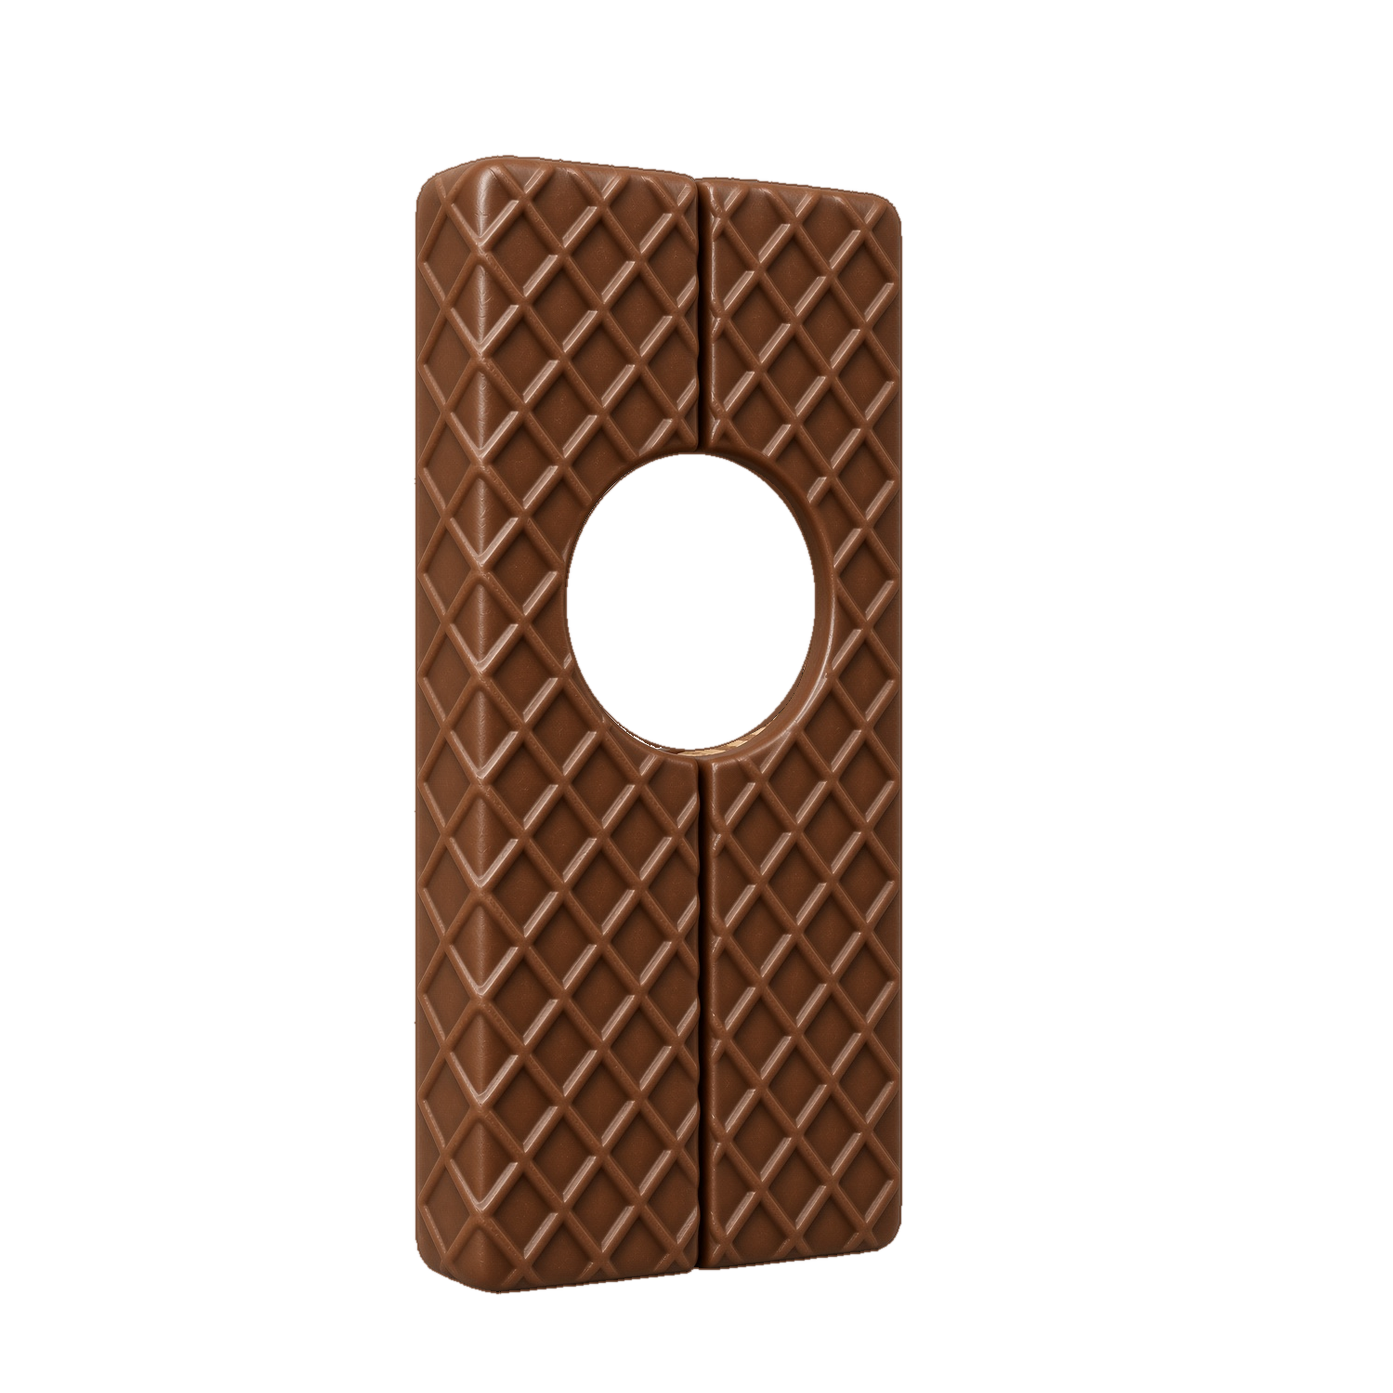
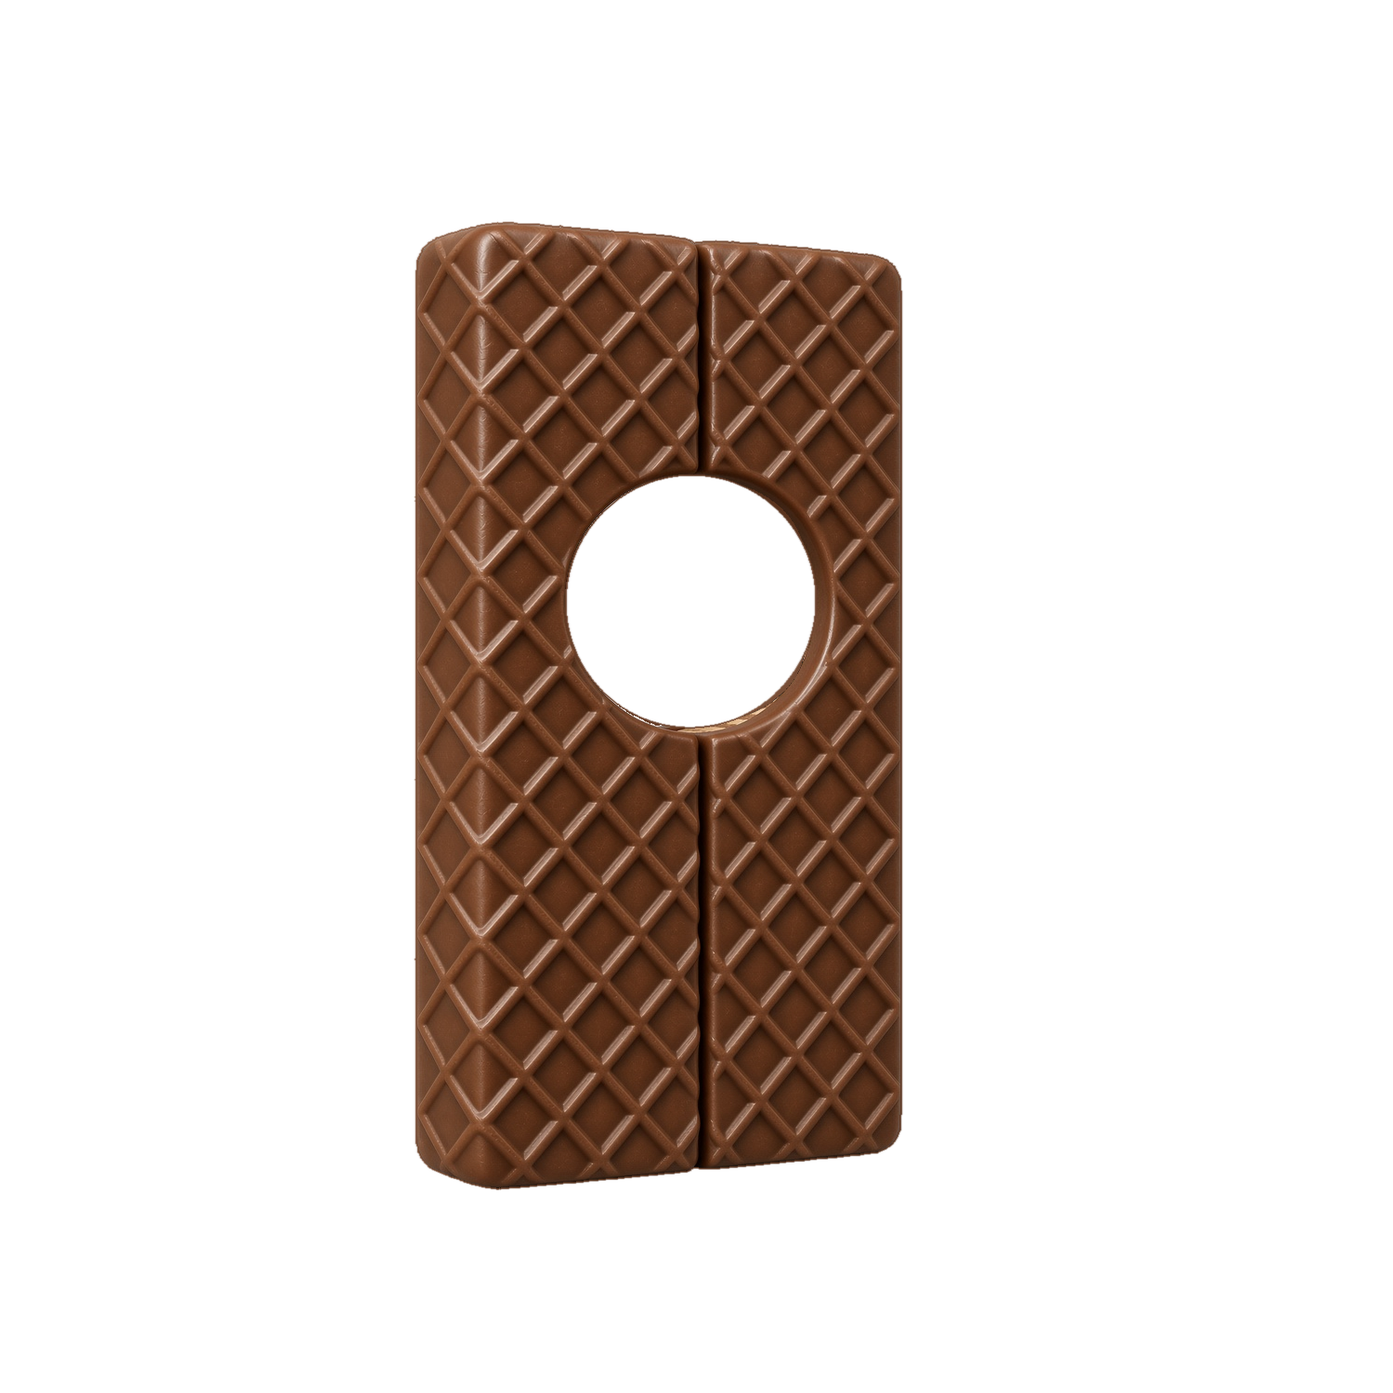
Squash the Nutty Bar to the Twinkie's proportions
The bar was 1139px tall against a cast median of 771 — 1.37x the median
height on the narrowest body in the set (488 wide, aspect 2.33 against the
next-tallest Twinkie's 1.99). It read as a plank rather than a character.

CHAR_SCALE cannot fix that. It is a uniform scale, so every value that
brought the height into line left a narrower plank with a smaller face
(rendered the ladder 0.93/0.87/0.82/0.76/0.70 to confirm: at 0.70 it is a
skinny sliver, aspect still 2.33). The proportion is the defect, so the art
is what had to change.

Squashed vertically to 0.85 about the ball centre, which:

  * takes the body from 488x1139 to 488x968, aspect 2.33 -> 1.98, matching
    the Twinkie (1.99) — the cast's other standing bar;
  * keeps the width, so the bar does not get skinnier;
  * keeps the face at full size, unlike a CHAR_SCALE reduction;
  * turns the face hole from the cast's only TALL ellipse (246x293) into a
    round 246x249 — essentially the cast median of 250 — while leaving it
    pinned at (690, 601).

That last one retires FACE_HOLE_BOTTOM_OVERRIDE["nutty_bar"] = 765. The
override existed only because the tall hole outran the ball's height; a
cast-sized hole is one the standard ball already covers, exactly as CLAUDE.md
says. gold_waffle's 750 is the only override left.

CHAR_Y_ADJUST re-derived, -118 -> -20, keeping the feet on the 1132 bar line
with the Twinkie and the churro.

Adds asset_assessment/squash_character.py, which does the transform, reports
[…]

Changed region(s): [[0.2778, 0.0926, 0.6482, 0.9261]]

diff --git a/asset_assessment/squash_character.py b/asset_assessment/squash_character.py
@@ -1,0 +1,167 @@
+#!/usr/bin/env python3
+"""Compress a character's art vertically about the ball centre.
+
+Why this exists rather than just lowering CHAR_SCALE: CHAR_SCALE is a
+UNIFORM scale, so it cannot change a character's proportions. Shrinking a
+body that is too tall makes it a smaller body that is still too tall, and it
+drags the face down with it (CHAR_SCALE scales body, ball, eyes and mouth
+together — see CLAUDE.md). The Nutty Bar was the case that forced the issue:
+at 1059px tall against a cast median of 771 it read as a plank, and every
+CHAR_SCALE that fixed its height left it a narrower plank with a smaller face.
+
+A vertical-only squash keeps the width and keeps the face at full size, and
+changes the one thing that was actually wrong — the aspect ratio.
+
+Two properties make it safe for this pipeline:
+
+  * It scales about the BALL CENTRE (CHAR_SCALE_PIVOT, ~690/601), so the face
+    hole stays pinned exactly where the compositor expects it. Nothing moves
+    to follow a body that drifted, so this is the only pivot that works.
+  * It makes a tall face hole ROUNDER, toward the cast's round holes. The
+    Nutty Bar's hole was the cast's only TALL ellipse (247x294), which is why
+    it needed a FACE_HOLE_BOTTOM_OVERRIDE at all; squashed it lands at
+    247x250, essentially the cast median, and the override can go.
+
+The cost is that the art's own texture is compressed by the same factor — a
+wafer grid gets 15% flatter at 0.85. Look at the result before keeping it;
+past ~0.75 the distortion starts to read as a squashed render rather than a
+shorter bar.
+
+Always writes a backup of the original next to it unless --no-backup.
+
+Usage (from repo root):
+  python3 asset_assessment/squash_character.py Nutty_Bar.png --factor 0.85
+  python3 asset_assessment/squash_character.py Nutty_Bar.png -f 0.85 --dry-run
+"""
+
+import argparse
+import os
+import shutil
+import sys
+
+import numpy as np
+from PIL import Image
+from scipy import ndimage
+
+sys.path.insert(0, os.path.dirname(os.path.dirname(os.path.abspath(__file__))))
+sys.path.insert(0, ".")
+import generator as g  # noqa: E402
+
+BACKUP_DIR = "characterz_originals"
+
+
+def body_and_hole(path):
+    """(body bbox, hole bbox) for a character asset, in canvas coords."""
+    im = Image.open(path).convert("RGBA")
+    if im.size != (g.CANVAS_SIZE, g.CANVAS_SIZE):
+        im = im.resize((g.CANVAS_SIZE,) * 2, Image.Resampling.LANCZOS)
+    a = np.array(im.getchannel("A")) > 50
+    ys, xs = np.nonzero(a)
+    body = (int(xs.min()), int(ys.min()), int(xs.max()), int(ys.max()))
+
+    holes = ndimage.binary_fill_holes(a) & ~a
+    lab, n = ndimage.label(holes)
+    bx, by = g.CHAR_SCALE_PIVOT
+    best, hole = None, None
+    for i in range(1, n + 1):
+        hy, hx = np.nonzero(lab == i)
+        if len(hy) < 6000:
+            continue
+        d = (hx.mean() - bx) ** 2 + (hy.mean() - by) ** 2
+        if best is None or d < best:
+            best = d
+            hole = (int(hx.min()), int(hy.min()), int(hx.max()), int(hy.max()))
+    return body, hole
+
+
+def squash(path, factor, out_path):
+    """Compress vertically about CHAR_SCALE_PIVOT's y, keeping the canvas."""
+    im = Image.open(path).convert("RGBA")
+    if im.size != (g.CANVAS_SIZE, g.CANVAS_SIZE):
+        im = im.resize((g.CANVAS_SIZE,) * 2, Image.Resampling.LANCZOS)
+    W, H = im.size
+    _, py = g.CHAR_SCALE_PIVOT
+    scaled = im.resize((W, max(1, round(H * factor))), Image.Resampling.LANCZOS)
+    canvas = Image.new("RGBA", (W, H), (0, 0, 0, 0))
+    # the pivot row must land back on itself: y' = py + factor*(y - py)
+    canvas.paste(scaled, (0, round(py - py * factor)))
+    canvas.save(out_path)
+    return out_path
+
+
+def describe(label, body, hole):
+    w, h = body[2] - body[0], body[3] - body[1]
+    s = f"  {label:<10} body {w}x{h}  aspect {h / w:.2f}"
+    if hole:
+        hw, hh = hole[2] - hole[0], hole[3] - hole[1]
+        cx, cy = (hole[0] + hole[2]) // 2, (hole[1] + hole[3]) // 2
+        bx, by = g.CHAR_SCALE_PIVOT
+        s += (f"   hole {hw}x{hh} at ({cx},{cy}) "
+              f"d=({cx - bx:+d},{cy - by:+d}) bottom {hole[3]}")
+    return s
+
+
+def main():
+    ap = argparse.ArgumentParser(
+        description=__doc__,
+        formatter_class=argparse.RawDescriptionHelpFormatter)
+    ap.add_argument("asset", help="filename inside traits/characterz")
+    ap.add_argument("-f", "--factor", type=float, required=True,
+                    help="vertical scale, <1 shortens (0.85 = 15% shorter)")
+    ap.add_argument("--dry-run", action="store_true")
+    ap.add_argument("--no-backup", action="store_true")
+    args = ap.parse_args()
+
+    if not 0.4 <= args.factor <= 1.5:
+        sys.exit(f"factor {args.factor} is outside the sane range 0.4-1.5")
+
+    src = os.path.join(g.TRAITS_DIR, g.CHARACTERZ, args.asset)
+    if not os.path.exists(src):
+        sys.exit(f"no such asset: {src}")
+
+    name = g.char_base_name(args.asset)
+    before_body, before_hole = body_and_hole(src)
+    print(f"{args.asset}  (character {name!r}, CHAR_SCALE "
+          f"{g.char_scale(name)})")
+    print(describe("before", before_body, before_hole))
+
+    tmp = src + ".squashed.png"   # PIL picks the writer from the extension
+    squash(src, args.factor, tmp)
+    after_body, after_hole = body_and_hole(tmp)
+    print(describe(f"x{args.factor}", after_body, after_hole))
+
+    # what the placement table has to become to keep the feet where they were
+    sc = g.char_scale(name)
+    _, py = g.CHAR_SCALE_PIVOT
+    old_bottom = py + sc * (before_body[3] - py) + g.char_y_adjust(name)
+    new_dy = round(old_bottom - (py + sc * (after_body[3] - py)))
+    print(f"\n  CHAR_Y_ADJUST[{name.lower()!r}]: {g.char_y_adjust(name)} "
+          f"-> {new_dy}   (keeps the bottom on canvas row {old_bottom:.0f})")
+    if after_hole:
+        print(f"  face hole bottom {after_hole[3]} vs cast "
+              f"FACE_HOLE_BOTTOM {g.FACE_HOLE_BOTTOM} — re-check "
+              f"FACE_HOLE_BOTTOM_OVERRIDE with verify_face_coverage.py")
+
+    if args.dry_run:
+        os.remove(tmp)
+        print("\ndry run: nothing written")
+        return 0
+
+    if not args.no_backup:
+        os.makedirs(BACKUP_DIR, exist_ok=True)
+        stem, ext = os.path.splitext(args.asset)
+        bak = os.path.join(BACKUP_DIR, f"{stem}_pre_squash{ext}")
+        if os.path.exists(bak):
+            sys.exit(f"backup {bak} already exists — refusing to overwrite "
+                     f"it (that would lose the true original)")
+        shutil.copy2(src, bak)
+        print(f"\nbacked up original -> {bak}")
+    os.replace(tmp, src)
+    print(f"wrote {src}")
+    print("\nNow: re-derive CHAR_Y_ADJUST above, then run "
+          "verify_face_coverage.py and verify_placement.py.")
+    return 0
+
+
+if __name__ == "__main__":
+    sys.exit(main())

diff --git a/generator.py b/generator.py
@@ -647,8 +647,9 @@ CHAR_Y_ADJUST = {
     "oatmeal_cream_pie": 14,
     "churro": 21,              # joins Twinkie and Nutty Bar on the 1132 bar
                                # line; it was the odd one out at 1111
-    "nutty_bar": -118,         # bar body, stands with the Twinkie at 1132;
-                               # re-derived for the regenerated art     # rescaled; feet on the shared ground line (1111)
+    "nutty_bar": -20,          # bar body, stands with the Twinkie at 1132;
+                               # re-derived after the art was squashed to
+                               # aspect 1.98 (was -118 at aspect 2.33)
 }
 
 def char_y_adjust(char_name):
@@ -737,10 +738,13 @@ CHAR_SCALE = {
     # feet on the same line as the rescaled cone tips and their width (581px)
     # alongside the rescaled ice creams (582px), keeping the two a family.
     "gummy_bear": 0.881,
-    # The regenerated bar is 1154 tall against the old art's 929, which does not
-    # fit the canvas standing on the 1132 bar line - its crown lands at y=-22.
-    # 0.93 buys a 60px top margin and keeps eye/hole at 1.22, inside the cast's
-    # 1.04-1.57 band.
+    # The regenerated bar came in at 1139 tall against a cast median of 771 —
+    # a plank. 0.93 was chosen to fit it on the canvas, but a UNIFORM scale
+    # cannot fix a proportion: every value that brought its height into line
+    # left it a narrower plank with a smaller face. The art has since been
+    # squashed vertically to aspect 1.98 (asset_assessment/squash_character.py),
+    # which matches the Twinkie, the cast's other standing bar. 0.93 is kept
+    # because it is what its CHAR_Y_ADJUST and the bar line are tuned to.
     "nutty_bar": 0.93,
 }
 
@@ -921,15 +925,12 @@ FACE_HOLE_BOTTOM = 732
 # the hole bottom (px) for just those characters so their ball is enlarged
 # enough to cover it, without growing every other character's face. Substring
 # match on the character base-name.
+# Prefer fixing the ART: the nutty_bar entry (765) is gone because squashing
+# its hole from a 246x293 tall ellipse to a cast-sized 246x249 round one left
+# nothing for the standard ball to miss. An override grows the ball for that
+# character, which costs face size everywhere it applies.
 FACE_HOLE_BOTTOM_OVERRIDE = {
     "gold_waffle": 750,   # hole bottom ~741; ball must reach below it
-    "nutty_bar": 765,     # its hole is a TALL ellipse (246 x 294) where the
-                          # rest of the cast's are round or wide, so the ball's
-                          # width covers it but its height does not, and its top
-                          # arc is flatter than the ball's. 765 is the smallest
-                          # value that closes the gap for every skin x eye pair
-                          # (751 left a 107 x 20 crescent at the top on the
-                          # alien skin); it costs 114% of cast-normal ball width.
 }
 
 def face_hole_bottom(char_name):
